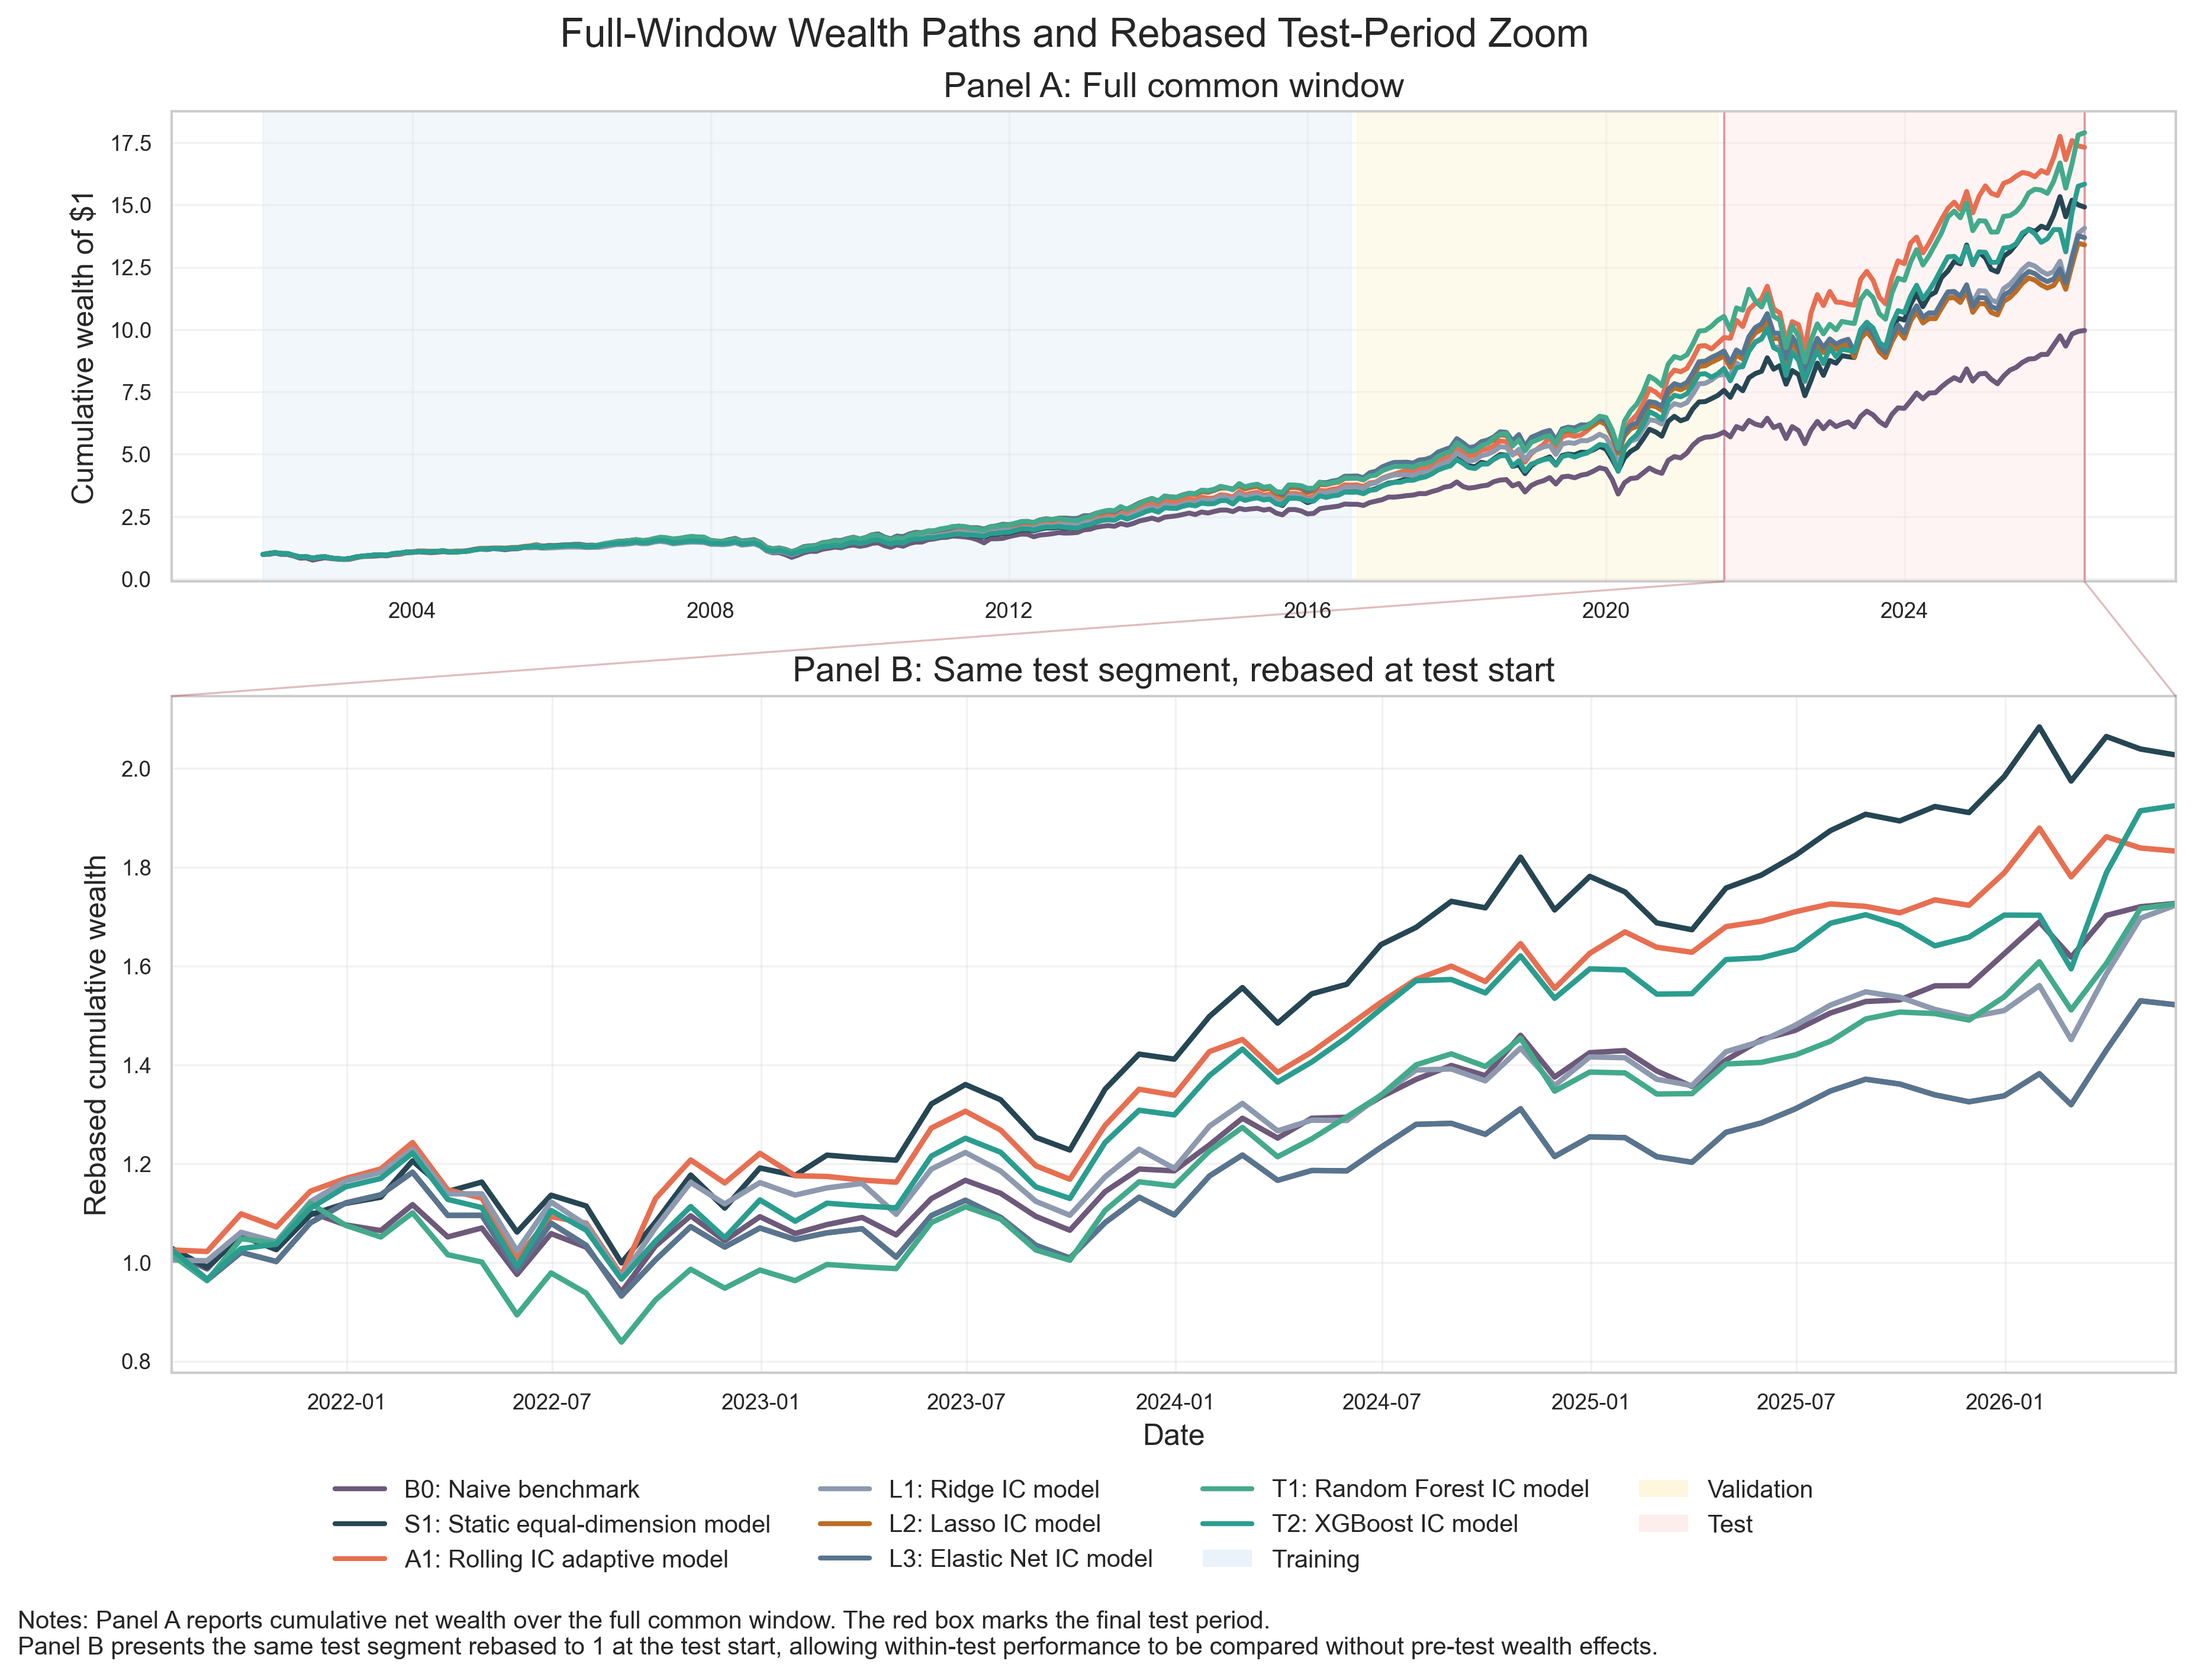
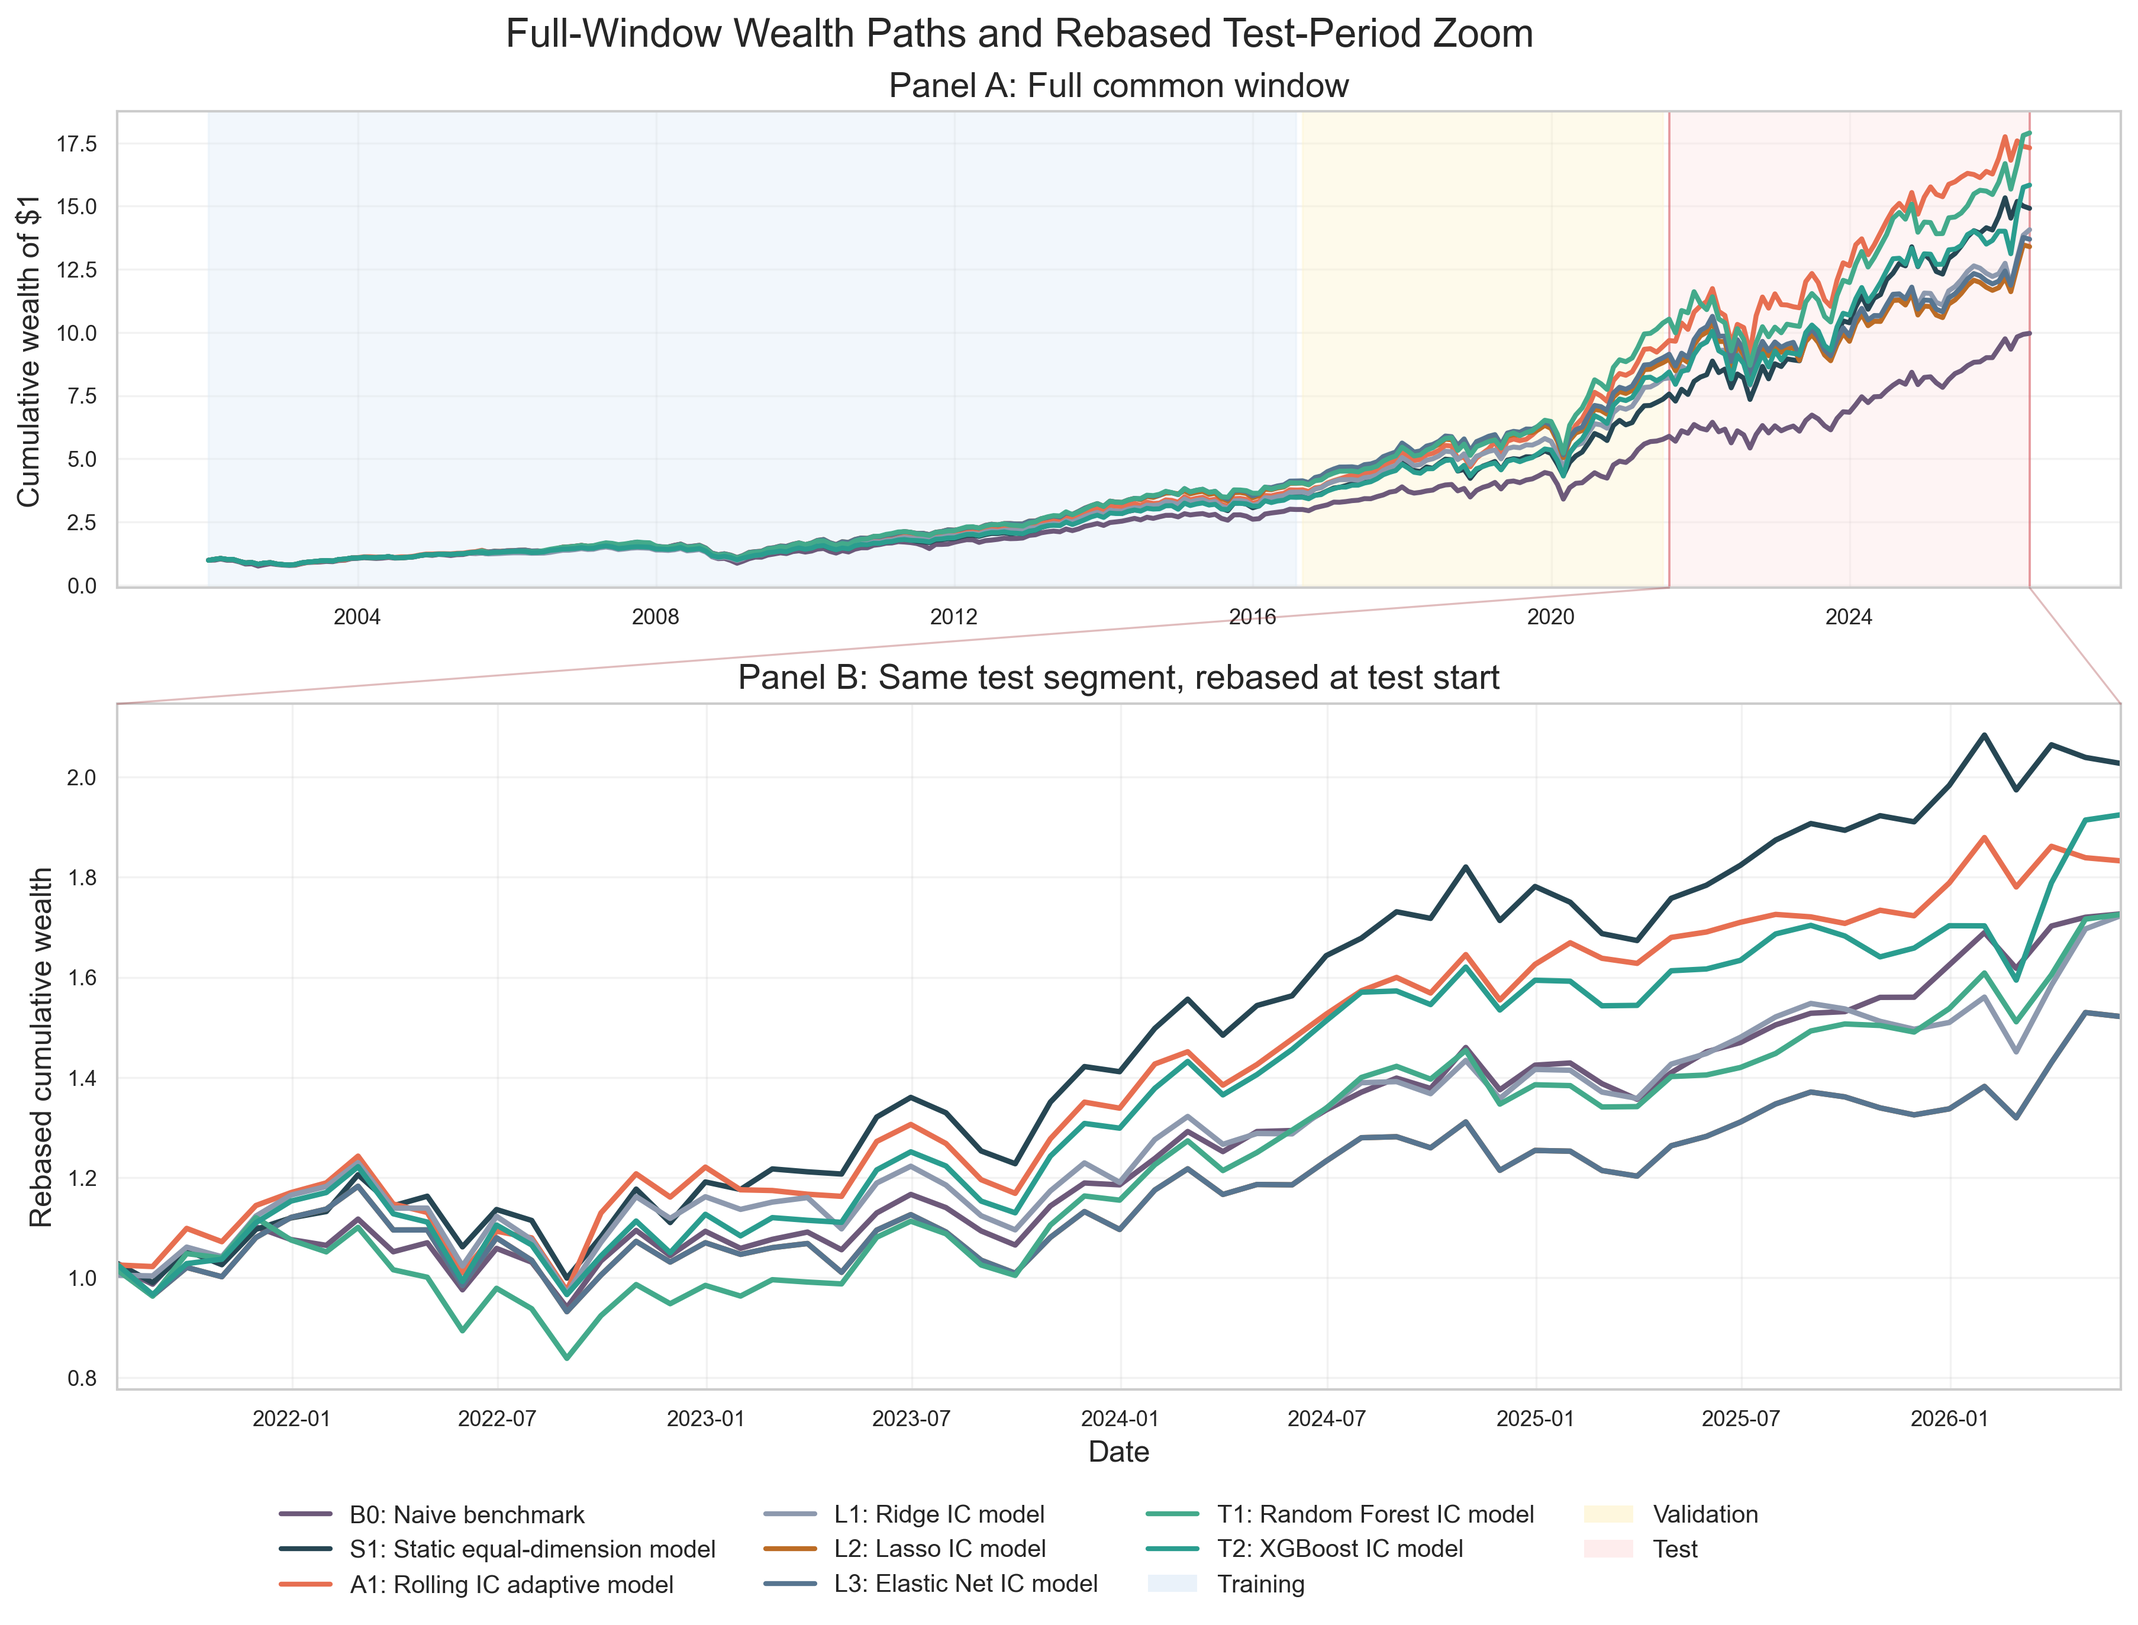
Refine appendix figures and concentration diagnostics

diff --git a/scripts/generate_report_assets.py b/scripts/generate_report_assets.py
@@ -174,6 +174,7 @@ DISPLAY_COLUMNS = {
     "mean_maximum_factor_weight": "Mean maximum dimension weight",
     "share_of_months_max_weight_gt_0_50": "Share of months with maximum weight > 0.50",
     "share_of_months_max_weight_gt_0_60": "Share of months with maximum weight > 0.60",
+    "share_of_months_at_theoretical_cap": "Share of months at theoretical cap",
     "model_code": "Model code",
     "factor": "Dimension",
     "sample": "Sample",
@@ -1901,17 +1902,9 @@ def make_figure_m3_factor_ic_by_vix_regime_boxplot() -> None:
         width=0.72,
     )
     plt.axhline(0, color="black", linestyle="--", linewidth=1.0)
-    plt.title("Core-Dimension IC Distributions by VIX Regime")
     plt.xlabel("")
     plt.ylabel("Monthly dimension IC")
     plt.legend(title="", frameon=True, loc="upper center", bbox_to_anchor=(0.5, 0.98), ncol=2)
-    plt.figtext(
-        0.01,
-        -0.03,
-        f"Note: High VIX months are defined as months with VIX above the 75th-percentile threshold ({threshold:.2f}).",
-        ha="left",
-        fontsize=10,
-    )
     plt.savefig(FIGURES_DIR / "figure_m3_factor_ic_by_vix_regime_boxplot.png")
     plt.close()
 
@@ -2192,19 +2185,10 @@ def make_figure_a1_full_window_and_test_rebased() -> None:
         line_labels + [h.get_label() for h in regime_handles],
         ncol=4,
         loc="lower center",
-        bbox_to_anchor=(0.5, 0.05),
+        bbox_to_anchor=(0.5, 0.035),
         frameon=False,
     )
-    fig.text(
-        0.02,
-        0.012,
-        "Notes: Panel A reports cumulative net wealth over the full common window. The red box marks the final test period.\n"
-        "Panel B presents the same test segment rebased to 1 at the test start, allowing within-test performance to be compared without pre-test wealth effects.",
-        ha="left",
-        va="bottom",
-        fontsize=10,
-    )
-    fig.subplots_adjust(left=0.09, right=1.000, top=0.92, bottom=0.18)
+    fig.subplots_adjust(left=0.09, right=1.000, top=0.92, bottom=0.17)
     plt.savefig(FIGURES_DIR / "figure_a1_full_window_and_test_rebased.png")
     plt.close()
 
@@ -2232,22 +2216,14 @@ def make_figure_2_rolling_weight_evolution() -> None:
         linewidth=0.0,
         edgecolor="none",
     )
-    ax.set_title("Time-Varying Core Dimension Weights under the Rolling IC Model")
-    ax.set_xlabel("Date")
+    ax.set_xlabel("Formation month")
     ax.set_ylabel("Weight")
     ax.set_ylim(0, 1)
     ax.yaxis.grid(True, alpha=0.18, linewidth=0.8)
     ax.xaxis.grid(False)
     ax.set_axisbelow(True)
-    ax.legend(frameon=False, ncol=1, loc="center left", bbox_to_anchor=(1.0, 0.5), fontsize=9)
-    fig.text(
-        0.01,
-        0.015,
-        "Notes: The figure reports twelve-month rolling averages of monthly dimension weights for visual clarity. Monthly dimension weights sum to one by construction.",
-        ha="left",
-        fontsize=10,
-    )
-    fig.subplots_adjust(left=0.09, right=0.74, top=0.88, bottom=0.17)
+    ax.legend(frameon=False, ncol=3, loc="lower center", bbox_to_anchor=(0.5, 1.02), fontsize=9)
+    fig.subplots_adjust(left=0.09, right=0.98, top=0.83, bottom=0.11)
     plt.savefig(FIGURES_DIR / "figure_2_rolling_ic_weight_evolution.png")
     plt.close()
 
@@ -2262,60 +2238,61 @@ def make_figure_3_xgboost_concentration() -> None:
     weights = weights[(weights["Date"] >= window_start) & (weights["Date"] <= window_end)].copy()
     weight_columns = list(FACTOR_LABELS)
     weights["max_dimension_weight"] = weights[weight_columns].max(axis=1)
+    theoretical_cap = model_weight + baseline_weight / 3.0
     mean_max = weights["max_dimension_weight"].mean()
     pct_gt_50 = (weights["max_dimension_weight"] > 0.50).mean()
     pct_gt_60 = (weights["max_dimension_weight"] > 0.60).mean()
+    pct_at_cap = weights["max_dimension_weight"].sub(theoretical_cap).abs().le(1e-9).mean()
     moderate_reference = 0.50
-    theoretical_cap = model_weight + baseline_weight / 3.0
 
-    plt.figure(figsize=(11, 6.5))
-    plt.plot(weights["Date"], weights["max_dimension_weight"], color=MODEL_COLORS["xgboost_ic"], linewidth=2.2)
-    plt.axhline(moderate_reference, color="#6c757d", linestyle="--", linewidth=1.2)
-    plt.axhline(theoretical_cap, color="#c1121f", linestyle="--", linewidth=1.2)
-    plt.text(
-        weights["Date"].iloc[-1],
-        moderate_reference + 0.005,
-        "",
-        va="bottom",
-        ha="right",
-        fontsize=10,
+    fig, ax = plt.subplots(figsize=(11, 6.2))
+    ax.plot(weights["Date"], weights["max_dimension_weight"], color=MODEL_COLORS["xgboost_ic"], linewidth=1.8)
+    ax.axhline(
+        moderate_reference,
+        color="#6c757d",
+        linestyle="--",
+        linewidth=1.2,
+        label="Majority threshold (0.50)",
     )
-    plt.text(
-        weights["Date"].iloc[-1],
-        theoretical_cap + 0.005,
-        "",
-        va="bottom",
-        ha="right",
-        fontsize=10,
+    ax.axhline(
+        theoretical_cap,
+        color="#c1121f",
+        linestyle="--",
+        linewidth=1.2,
+        label=f"40/60 upper bound ({theoretical_cap:.4f})",
     )
     annotation = (
-        f"Mean maximum dimension weight: {mean_max:.2f}\n"
+        f"Mean maximum weight: {mean_max:.3f}\n"
         f"Months with max weight > 0.50: {pct_gt_50 * 100:.1f}%\n"
-        f"Months with max weight > 0.60: {pct_gt_60 * 100:.1f}%\n"
-        f"Theoretical post-shrinkage cap: {theoretical_cap:.4f}"
+        f"Months at upper bound: {pct_at_cap * 100:.1f}%"
     )
-    plt.text(
+    ax.text(
         0.02,
         0.98,
         annotation,
-        transform=plt.gca().transAxes,
+        transform=ax.transAxes,
         va="top",
         ha="left",
         fontsize=10,
-        bbox={"facecolor": "white", "alpha": 0.85, "edgecolor": "#cccccc"},
+        bbox={"facecolor": "white", "alpha": 0.9, "edgecolor": "#cccccc", "boxstyle": "square,pad=0.25"},
     )
-    plt.title("XGBoost Dimension-Weight Concentration Over Time")
-    plt.xlabel("Date")
-    plt.ylabel("Maximum dimension weight")
-    plt.ylim(0, 1)
-    plt.savefig(FIGURES_DIR / "figure_3_xgboost_weight_concentration.png")
-    plt.close()
+    ax.set_xlabel("Formation month")
+    ax.set_ylabel("Maximum dimension weight")
+    ax.set_ylim(0.28, min(0.78, theoretical_cap + 0.05))
+    ax.yaxis.grid(True, alpha=0.18, linewidth=0.8)
+    ax.xaxis.grid(False)
+    ax.set_axisbelow(True)
+    ax.legend(frameon=False, ncol=2, loc="lower center", bbox_to_anchor=(0.5, 1.02), fontsize=9)
+    fig.subplots_adjust(left=0.09, right=0.98, top=0.84, bottom=0.12)
+    fig.savefig(FIGURES_DIR / "figure_3_xgboost_weight_concentration.png")
+    plt.close(fig)
     pd.DataFrame(
         [
             {
                 "mean_maximum_factor_weight": mean_max,
                 "share_of_months_max_weight_gt_0_50": pct_gt_50,
                 "share_of_months_max_weight_gt_0_60": pct_gt_60,
+                "share_of_months_at_theoretical_cap": pct_at_cap,
             }
         ]
     ).pipe(rename_display_columns).to_csv(TABLES_DIR / "table_xgboost_weight_concentration_diagnostics.csv", index=False)

diff --git a/scripts/generate_factor_contribution_assets.py b/scripts/generate_factor_contribution_assets.py
@@ -68,6 +68,11 @@ def load_common_window() -> tuple[pd.Timestamp, pd.Timestamp]:
     return pd.Timestamp(summary["common_window_start"]), pd.Timestamp(summary["common_window_end"])
 
 
+def expected_common_window_months() -> int:
+    common_window_start, common_window_end = load_common_window()
+    return len(pd.date_range(start=common_window_start, end=common_window_end, freq="ME"))
+
+
 def load_selection_frame(model_name: str) -> pd.DataFrame:
     frame = pd.read_csv(BACKTEST_DIR / main_result_backtest_name(model_name, "selections"), parse_dates=["Date"])
     if model_name == "fixed_weight":
@@ -78,16 +83,18 @@ def load_selection_frame(model_name: str) -> pd.DataFrame:
 
 def load_weight_history_frame(model_name: str) -> pd.DataFrame:
     common_window_start, common_window_end = load_common_window()
+    expected_months = expected_common_window_months()
     if model_name == "fixed_weight":
         dates = pd.read_csv(BACKTEST_DIR / main_result_backtest_name("fixed_weight", "selections"), usecols=["Date"]).drop_duplicates()
         dates["Date"] = pd.to_datetime(dates["Date"])
         dates = dates[(dates["Date"] >= common_window_start) & (dates["Date"] <= common_window_end)].copy()
         for weight_column, value in STATIC_WEIGHTS.items():
             dates[weight_column] = value
+        assert dates["Date"].nunique() == expected_months, f"{model_name} weight history should contain {expected_months} common-window months"
         return dates
     frame = pd.read_csv(BACKTEST_DIR / main_result_backtest_name(model_name, "weight_history"), parse_dates=["Date"])
     frame = frame[(frame["Date"] >= common_window_start) & (frame["Date"] <= common_window_end)].copy()
-    assert frame["Date"].nunique() == 294, f"{model_name} weight history should contain 294 common-window months"
+    assert frame["Date"].nunique() == expected_months, f"{model_name} weight history should contain {expected_months} common-window months"
     return frame
 
 
